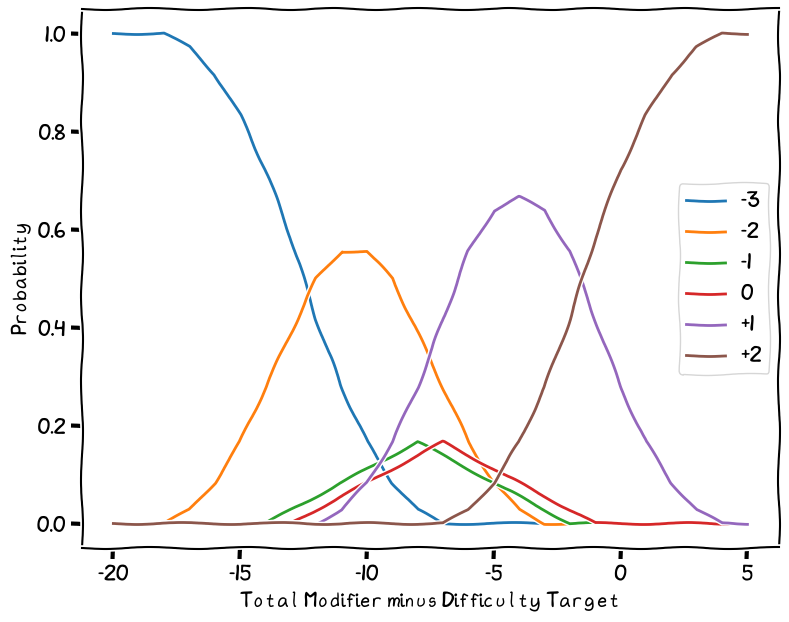
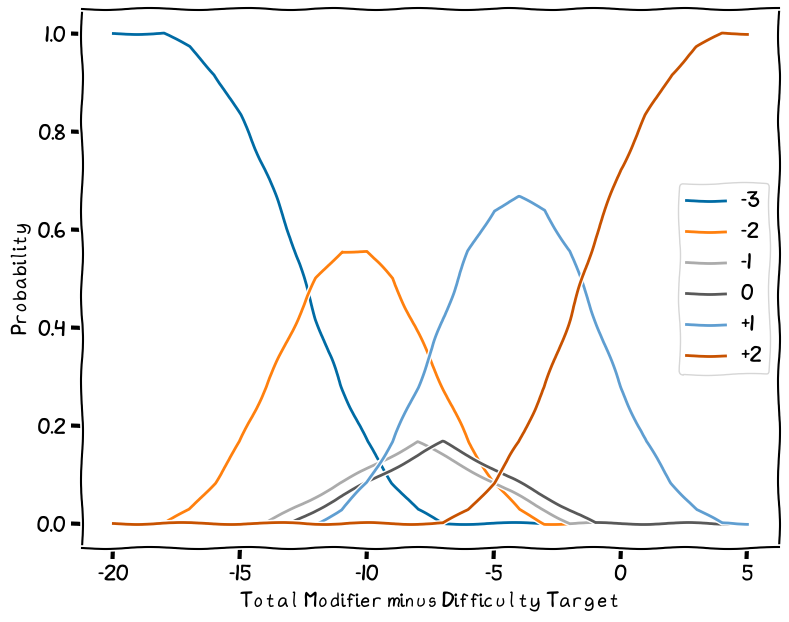
Re-do Traveller dice roll graphs to be more colour blind friendly
This also fixes an error in the "trying again" section about chained
rolls.

diff --git a/_resources/traveller-dice-rolls.py b/_resources/traveller-dice-rolls.py
@@ -1,0 +1,259 @@
+#! /usr/bin/env nix-shell
+#! nix-shell -i python3 --packages "python3.withPackages(ps: [ps.matplotlib])"
+
+import itertools
+import matplotlib.pyplot as plt
+import math
+import sys
+
+def chain_dm(effect):
+    if effect <= -6:
+        return -3
+    if effect <= -2:
+        return -2
+    if effect <= -1:
+        return -1
+    if effect <= 0:
+        return 0
+    if effect <= 5:
+        return 1
+    return 2
+
+
+def simulate_chain(mod1, mod2, target=0, combine=None):
+    if combine is None:
+        combine = lambda abc1, abc2: chain_dm(abc1) + abc2
+    successes = 0
+    trials = 0
+    dice = itertools.product(range(1,7), range(1,7), range(1,7), range(1,7))
+    for (dieA1, dieB1, dieA2, dieB2) in dice:
+        if combine(dieA1 + dieB1 + mod1, dieA2 + dieB2 + mod2) >= target:
+            successes += 1
+        trials += 1
+    print(mod1, mod2, successes, trials, successes / trials)
+    return successes / trials
+
+
+def simulate(modifiers, target=0, convert=None, eq=False, combine=None):
+    if convert is None:
+        convert = lambda x: x
+    if combine is None:
+        combine = lambda abc: abc[:2]
+    successes = 0
+    trials = 0
+    dice = itertools.product(range(1,7), range(1,7), range(1,7))
+    for (dieA, dieB) in map(combine, dice):
+        if eq:
+            if convert(dieA + dieB + modifiers) == target:
+                successes += 1
+        else:
+            if convert(dieA + dieB + modifiers) >= target:
+                successes += 1
+        trials += 1
+    print(modifiers, target, successes, trials, successes / trials)
+    return successes / trials
+
+
+plt.style.use('tableau-colorblind10')
+plt.xkcd()
+
+if sys.argv[1] == "basic.png":
+    plt.figure(figsize=(9,7)).gca().xaxis.get_major_locator().set_params(integer=True)
+
+    probabilities = {}
+    for mod in range(-10, 11):
+        probabilities[mod] = simulate(mod, target=8)
+    xs = sorted(probabilities.keys())
+    ys = [probabilities[x] for x in xs]
+    plt.plot(xs, ys)
+
+    plt.xlabel('Total Modifier')
+    plt.ylabel('Probability of Success')
+
+elif sys.argv[1] == "difficulties.png":
+    plt.figure(figsize=(9,7)).gca().xaxis.get_major_locator().set_params(integer=True)
+
+    for (name, tn) in [("Simple", 2), ("Easy", 4), ("Routine", 6), ("Average", 8), ("Difficult", 10), ("Very Difficult", 12), ("Formidable", 14), ("Impossible", 16)]:
+        label = f"{name} ({tn}+)"
+        probabilities = {}
+        for mod in range(-10, 11):
+            probabilities[mod] = simulate(mod, target=tn)
+        xs = sorted(probabilities.keys())
+        ys = [probabilities[x] for x in xs]
+        plt.plot(xs, ys, label=label)
+
+    plt.legend()
+    plt.xlabel('Total Modifier')
+    plt.ylabel('Probability of Success')
+
+elif sys.argv[1] == "normalised-difficulties.png":
+    plt.figure(figsize=(9,7)).gca().xaxis.get_major_locator().set_params(integer=True)
+
+    probabilities = {}
+    for mod in range(-26, 9):
+        probabilities[mod] = simulate(mod)
+    xs = sorted(probabilities.keys())
+    ys = [probabilities[x] for x in xs]
+    plt.plot(xs, ys)
+
+    plt.xlabel('Total Modifier minus Difficulty Target')
+    plt.ylabel('Probability of Success')
+
+elif sys.argv[1] == "normalised-difficulties-trimmed.png":
+    plt.figure(figsize=(9,7)).gca().xaxis.get_major_locator().set_params(integer=True)
+
+    probabilities = {}
+    for mod in range(-13, -1):
+        probabilities[mod] = simulate(mod)
+    xs = sorted(probabilities.keys())
+    ys = [probabilities[x] for x in xs]
+    plt.plot(xs, ys)
+
+    plt.xlabel('Total Modifier minus Difficulty Target')
+    plt.ylabel('Probability of Success')
+
+elif sys.argv[1] == "boon-bane.png":
+    plt.figure(figsize=(9,7)).gca().xaxis.get_major_locator().set_params(integer=True)
+
+    for boon in [True, False]:
+        for bane in [False, True]:
+            if boon and bane:
+                continue
+            if boon:
+                label = "Boon"
+                combine = lambda rolls: sorted(rolls)[1:]
+            elif bane:
+                label = "Bane"
+                combine = lambda rolls: sorted(rolls, reverse=True)[1:]
+            else:
+                label = "Normal"
+                combine = lambda rolls: rolls[1:]
+            probabilities = {}
+            for mod in range(-13, -1):
+                probabilities[mod] = simulate(mod, combine=combine)
+            xs = sorted(probabilities.keys())
+            ys = [probabilities[x] for x in xs]
+            plt.plot(xs, ys, label=label)
+
+    plt.legend()
+    plt.xlabel('Total Modifier minus Difficulty Target')
+    plt.ylabel('Probability of Success')
+
+elif sys.argv[1] == "task-chain-dms.png":
+    plt.figure(figsize=(9,7)).gca().xaxis.get_major_locator().set_params(integer=True)
+
+    for tn in [-3, -2, -1, 0, 1, 2]:
+        if tn <= 0:
+            label = str(tn)
+        else:
+            label = f"+{tn}"
+        probabilities = {}
+        for mod in range(-20, 6):
+            probabilities[mod] = simulate(mod, target=tn, convert=chain_dm, eq=True)
+        xs = sorted(probabilities.keys())
+        ys = [probabilities[x] for x in xs]
+        plt.plot(xs, ys, label=label)
+
+    plt.legend()
+    plt.xlabel('Total Modifier minus Difficulty Target')
+    plt.ylabel('Probability')
+
+elif sys.argv[1] == "task-chain-heat.png":
+    plt.figure(figsize=(10,10))
+
+    modrange = list(range(-20, 6))
+    data = [
+        [ simulate_chain(mod1, mod2) for mod1 in modrange
+        ] for mod2 in modrange
+    ]
+    data.reverse()
+
+    plt.imshow(data, cmap='hot')
+    plt.xticks([i for i in range(len(modrange))], modrange)
+    plt.yticks([i for i in range(len(modrange))], reversed(modrange))
+    plt.xlabel('First Check (Total Modifier minus Difficulty Target)')
+    plt.ylabel('Second Check (Total Modifier minus Difficulty Target)')
+
+elif sys.argv[1] == "task-chain-heat-unbound.png":
+    plt.figure(figsize=(10,10))
+
+    modrange = list(range(-20, 6))
+    data = [
+        [ simulate_chain(mod1, mod2, combine=lambda roll1, roll2: roll1 + roll2) for mod1 in modrange
+        ] for mod2 in modrange
+    ]
+    data.reverse()
+
+    plt.imshow(data, cmap='hot')
+    plt.xticks([i for i in range(len(modrange))], modrange)
+    plt.yticks([i for i in range(len(modrange))], reversed(modrange))
+    plt.xlabel('First Check (Total Modifier minus Difficulty Target)')
+    plt.ylabel('Second Check (Total Modifier minus Difficulty Target)')
+
+elif sys.argv[1] == "try-again.png":
+    plt.figure(figsize=(9,7)).gca().xaxis.get_major_locator().set_params(integer=True)
+
+    for label in ["Normal", "Pushed", "Chained"]:
+        probabilities = {}
+        for mod in range(-13, -1):
+            straight = simulate(mod)
+            if label == "Normal":
+                probabilities[mod] = straight
+            elif label == "Pushed":
+                probabilities[mod] = straight + (1 - straight) * straight
+            elif label == "Chained":
+                successes = 0
+                trials = 0
+                dice = itertools.product(range(1,7), range(1,7), range(1,7), range(1,7))
+                for (dieA1, dieB1, dieA2, dieB2) in dice:
+                    if dieA1 + dieB1 + mod >= 0:
+                        successes += 1
+                    elif chain_dm(dieA1 + dieB1 + mod) + dieA2 + dieB2 + mod >= 0:
+                        successes += 1
+                    trials += 1
+                print(mod, successes, trials, successes / trials)
+                probabilities[mod] = successes / trials
+        xs = sorted(probabilities.keys())
+        ys = [probabilities[x] for x in xs]
+        plt.plot(xs, ys, label=label)
+
+    plt.legend()
+    plt.xlabel('Total Modifier minus Difficulty Target')
+    plt.ylabel('Probability of Success')
+
+elif sys.argv[1] == "opposed-heat.png":
+    plt.figure(figsize=(10,10))
+
+    modrange = list(range(-20, 6))
+    data = [
+        [ simulate_chain(mod1, mod2, combine=lambda abc1, abc2: abc1 - abc2) for mod1 in modrange
+        ] for mod2 in modrange
+    ]
+    data.reverse()
+
+    plt.imshow(data, cmap='hot')
+    plt.xticks([i for i in range(len(modrange))], modrange)
+    plt.yticks([i for i in range(len(modrange))], reversed(modrange))
+    plt.xlabel('First Check (Total Modifier minus Difficulty Target)')
+    plt.ylabel('Second Check (Total Modifier minus Difficulty Target)')
+
+elif sys.argv[1] == "opposed-heat-chain-dm.png":
+    plt.figure(figsize=(10,10))
+
+    modrange = list(range(-20, 6))
+    data = [
+        [ simulate_chain(mod1, mod2, combine=lambda abc1, abc2: chain_dm(abc1) - chain_dm(abc2)) for mod1 in modrange
+        ] for mod2 in modrange
+    ]
+    data.reverse()
+
+    plt.imshow(data, cmap='hot')
+    plt.xticks([i for i in range(len(modrange))], modrange)
+    plt.yticks([i for i in range(len(modrange))], reversed(modrange))
+    plt.xlabel('First Check (Total Modifier minus Difficulty Target)')
+    plt.ylabel('Second Check (Total Modifier minus Difficulty Target)')
+
+else:
+    raise Exception("what?")
+
+plt.savefig(sys.argv[1], bbox_inches='tight')
